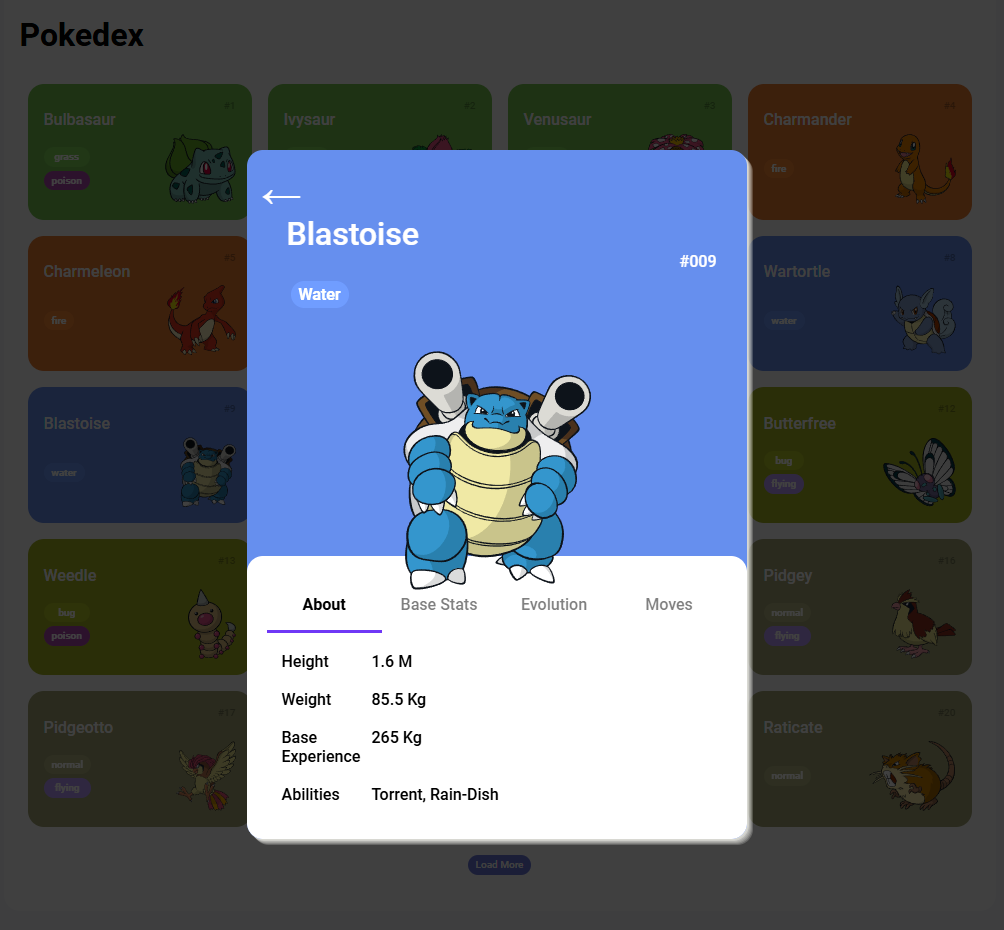
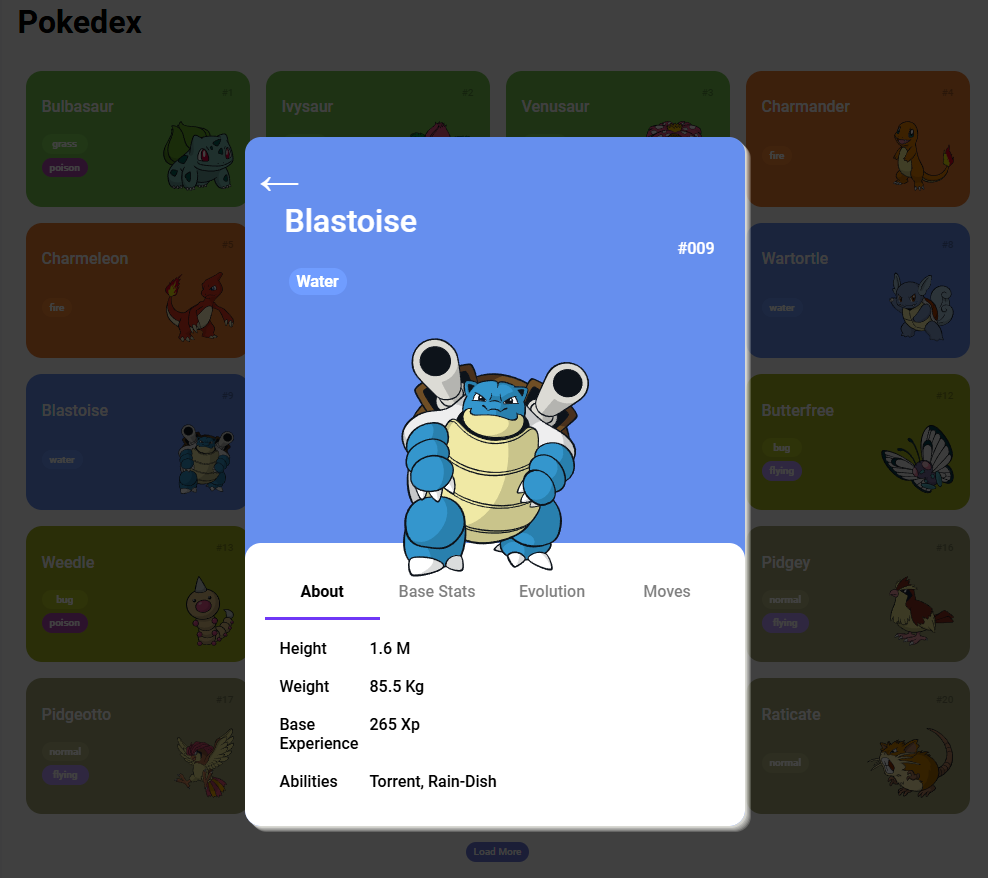
fix: unit of base experience
Base Experience unit of measurement correction and corresponding image

diff --git a/assets/js/main.js b/assets/js/main.js
@@ -31,7 +31,7 @@ function carregarAbout(pokemon) {
         </div>
         <div class="pokemon_lineDescription">
             <span class="pokemon_textTag">Base Experience</span>
-            <span class="pokemon_information">${pokemon.baseExperience} kg</span>
+            <span class="pokemon_information">${pokemon.baseExperience} xp</span>
         </div>
         <div class="pokemon_lineDescription">
             <span class="pokemon_textTag">Abilities</span>
